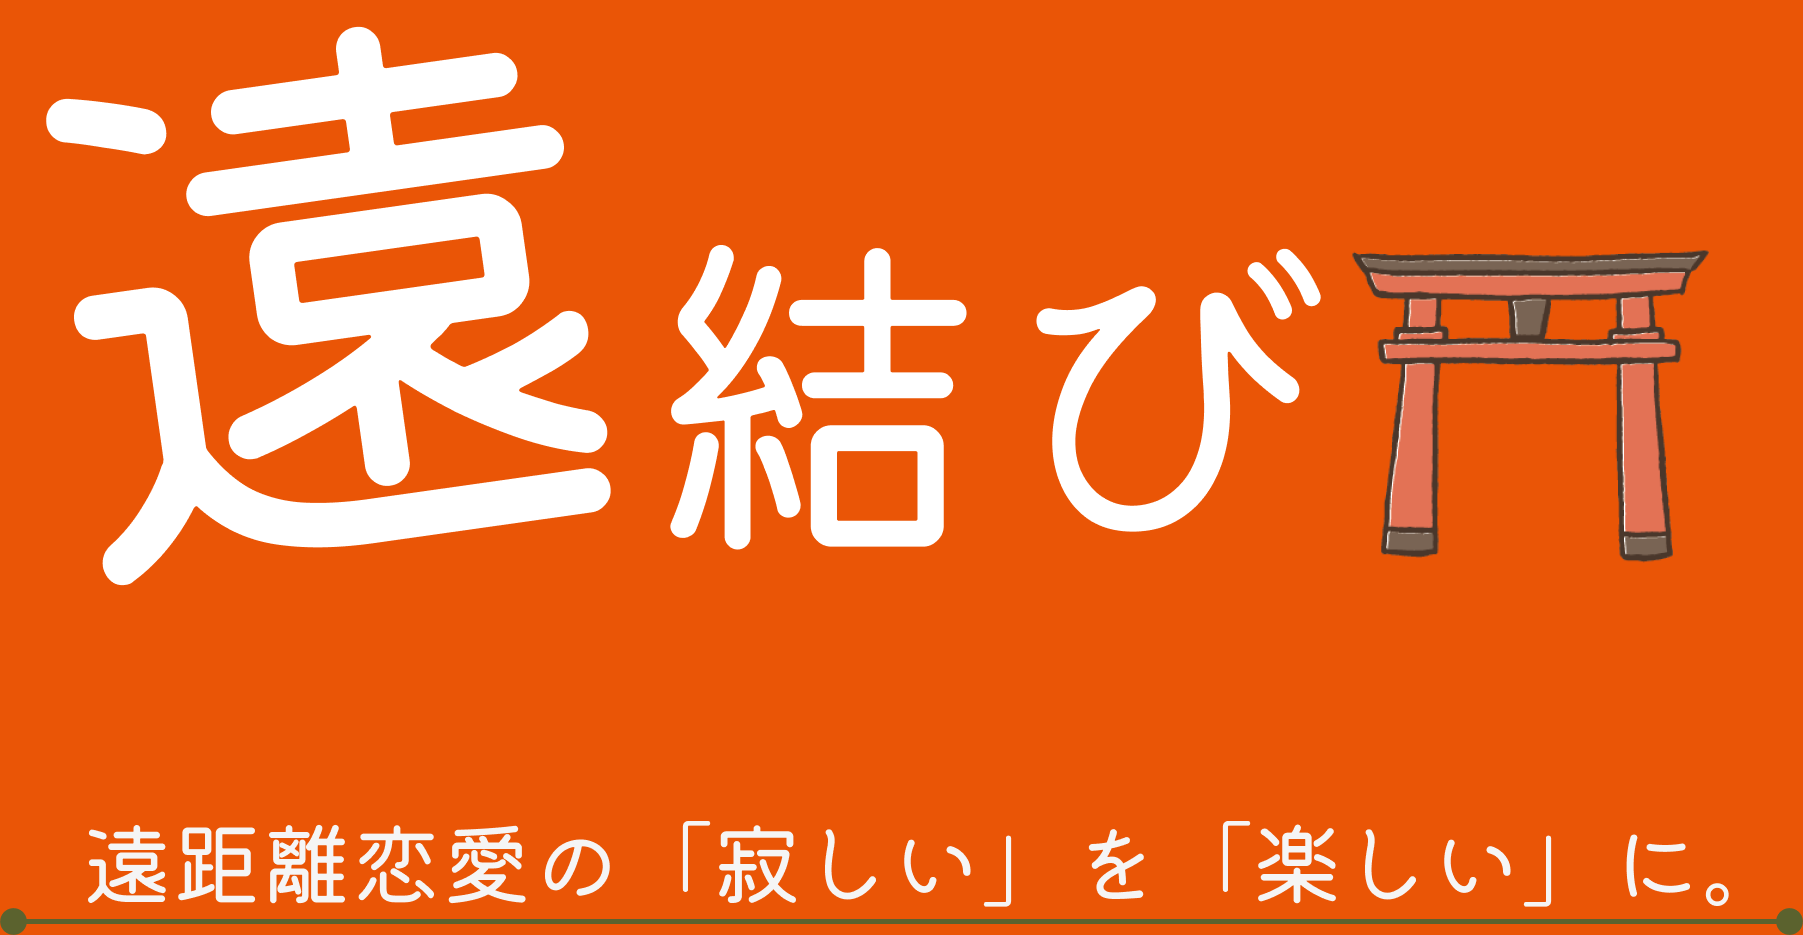
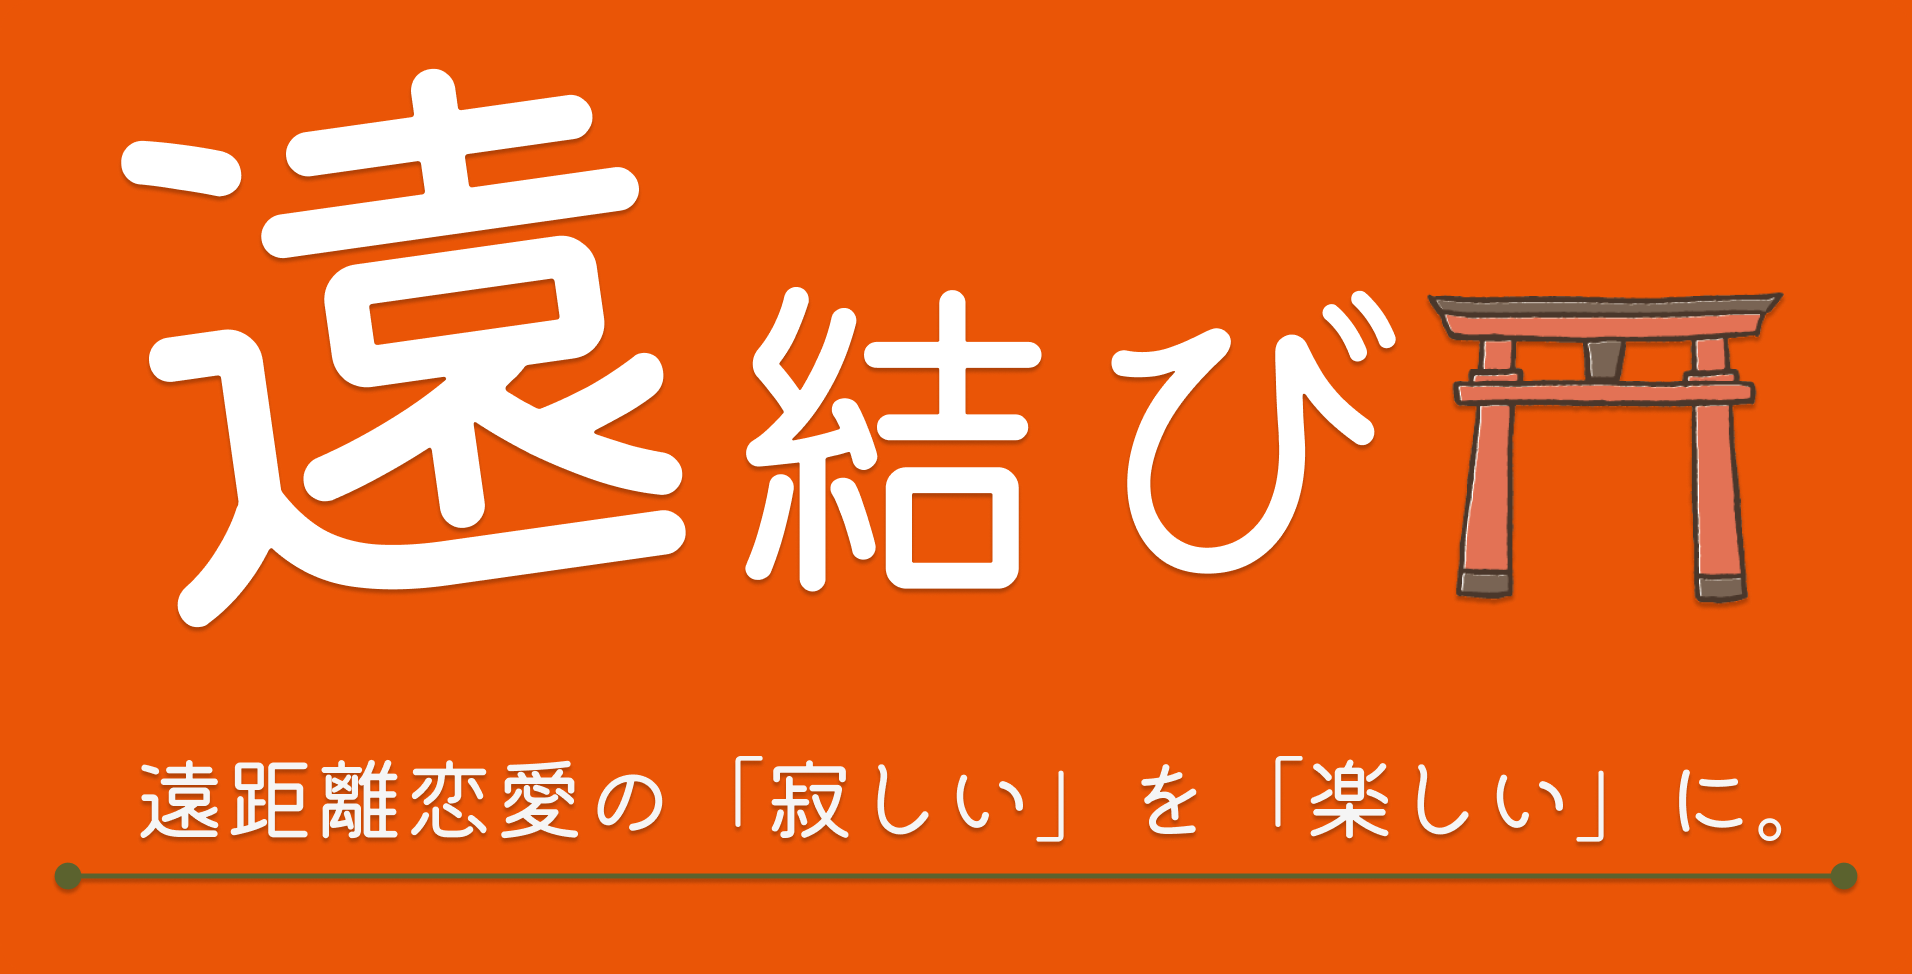
Fix: opg微修正とreadme修正

Changed region(s): [[0.0, 0.031, 0.9628, 0.6513], [0.0, 0.7754, 1.0, 1.0], [0.5901, 0.4652, 0.6833, 0.5893]]

diff --git a/README.md b/README.md
@@ -1,6 +1,9 @@
 ## ■サービス名
-## 遠結び
-  サービスURL: https://enkyori-enmusubi.com
+  <img src="images/ogp.png">
+  #### ▼サービスURL
+    https://enkyori-enmusubi.com
+  #### ▼紹介記事
+    https://qiita.com/akane_zark/items/9e90615b40f4353c4e1a
 
 ## ■サービス概要
   遠距離恋愛中で、恋人と会えない寂しさを抱えている方に、
